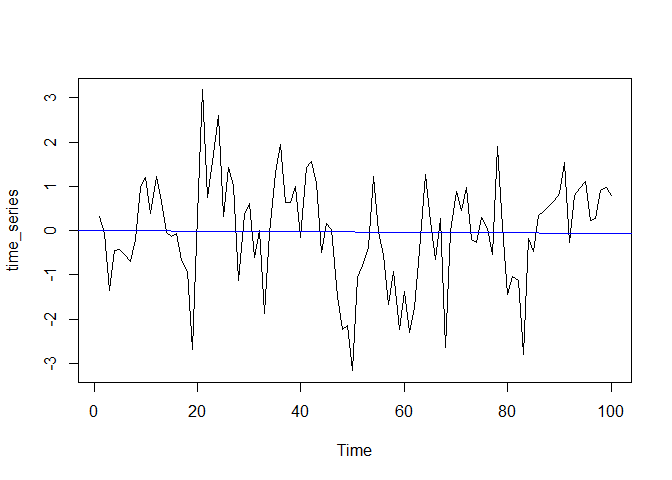
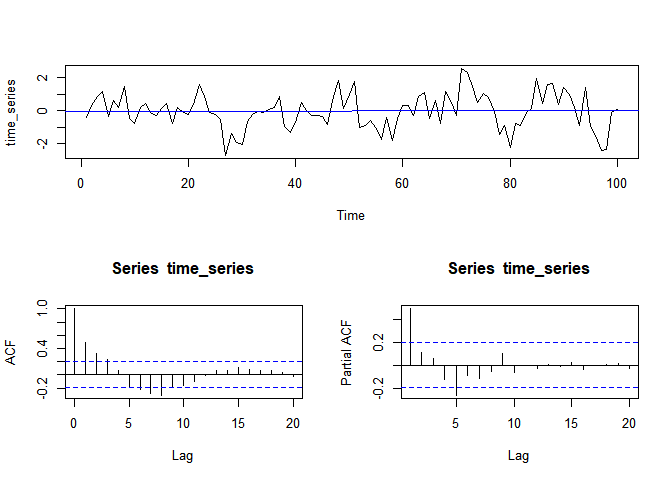
Fix plot layouts

diff --git a/src/2022-03-04_inadequacy-of-t-tests-for-time-series-data.md b/src/2022-03-04_inadequacy-of-t-tests-for-time-series-data.md
@@ -46,25 +46,20 @@ library(forecast)
 # 3 Single t-test
 
 ``` r
+layout.matrix <- matrix(c(1, 2, 1, 3), nrow = 2, ncol = 2)
+layout(mat = layout.matrix)
+
+
 time_series <- arima.sim(model = list(ar = .5), n = 100)
 plot(time_series)
 fit <- lm(as.vector(time_series) ~ c(1:length(time_series)))
 abline(fit, col = "blue")
-```
 
-![](2022-03-04_inadequacy-of-t-tests-for-time-series-data_files/figure-gfm/unnamed-chunk-2-1.png)<!-- -->
-
-``` r
 acf(time_series)
-```
-
-![](2022-03-04_inadequacy-of-t-tests-for-time-series-data_files/figure-gfm/unnamed-chunk-2-2.png)<!-- -->
-
-``` r
 pacf(time_series)
 ```
 
-![](2022-03-04_inadequacy-of-t-tests-for-time-series-data_files/figure-gfm/unnamed-chunk-2-3.png)<!-- -->
+![](2022-03-04_inadequacy-of-t-tests-for-time-series-data_files/figure-gfm/unnamed-chunk-2-1.png)<!-- -->
 
 ``` r
 sample_mean <- mean(time_series)
@@ -74,7 +69,7 @@ Here we have an `AR(1)` model with no “intercept” or starting term. By
 definition, it is weakly stationary, with mean equal to zero. That is,
 *μ* = 0.
 
-The sample mean here is -0.0184821.
+The sample mean here is -0.0216286.
 
 We can do a t-test to assess the null hypothesis
 *H*<sub>0</sub> : *μ* = 0 vs alternative hypothesis
@@ -87,7 +82,7 @@ alpha <- .05
 reject_null <- t_test_p_value < alpha
 ```
 
-The t-test gives a p-value of 0.8768696, which in this case means
+The t-test gives a p-value of 0.8397995, which in this case means
 `reject_null` = FALSE.
 
 # 4 Simulation of a large number of t-tests
@@ -111,7 +106,7 @@ prop_false_rejection <- mean(sim_data < alpha)
 The Type 1 error rate is the proportion of time the p-value is less than
 `alpha` under the null hypothesis.
 
-**Here, the value of the Type 1 error rate is 0.2616. This is much
+**Here, the value of the Type 1 error rate is 0.2651. This is much
 higher than `alpha`, which is the “advertised” Type 1 error rate.**
 
 # 5 Comparison using normally distributed data
@@ -126,7 +121,7 @@ sim_data <- replicate(10000, {
 prop_false_rejection_normal <- mean(sim_data < .05)
 ```
 
-Here the t-test performs well. The Type 1 error rate is 0.0483
+Here the t-test performs well. The Type 1 error rate is 0.0479
 
 # 6 Working with residuals from fitted ARIMA model
 
@@ -137,27 +132,30 @@ independent and identically distributed. Thus, the t-test should work
 well on the residuals.
 
 ``` r
+layout.matrix <- matrix(c(1, 2, 1, 3), nrow = 2, ncol = 2)
+layout(mat = layout.matrix)
+
+
 time_series <- arima.sim(model = list(ar = .5), n = 200)
 model <- auto.arima(time_series, stepwise = FALSE, approximation = FALSE)
 
 plot(time_series)
 lines(model$fitted, col = "blue")
-```
 
-![](2022-03-04_inadequacy-of-t-tests-for-time-series-data_files/figure-gfm/unnamed-chunk-6-1.png)<!-- -->
-
-``` r
-if (is.na(model$coef["intercept"])){
+if (is.na(model$coef["intercept"])) {
   intercept <- 0
 } else {
   intercept <- model$coef["intercept"]
 }
 
+
+hist(model$residuals)
+
 shifted_residuals <- model$residuals + intercept
 hist(shifted_residuals)
 ```
 
-![](2022-03-04_inadequacy-of-t-tests-for-time-series-data_files/figure-gfm/unnamed-chunk-6-2.png)<!-- -->
+![](2022-03-04_inadequacy-of-t-tests-for-time-series-data_files/figure-gfm/unnamed-chunk-6-1.png)<!-- -->
 
 ``` r
 alpha <- 0.05
@@ -165,7 +163,7 @@ t_test_p_value <- t.test(shifted_residuals, mu = 0)$p.value
 reject_null <- t_test_p_value < alpha
 ```
 
-In this case, the p-value is 0.2742381, and `reject_null` is FALSE
+In this case, the p-value is 0.7117781, and `reject_null` is FALSE
 
 ## 6.1 Simulation over many iterations
 
@@ -179,7 +177,7 @@ sim_data <- replicate(1000, {
   
   model <- auto.arima(x, stepwise = TRUE, approximation = TRUE)
   
-  if (is.na(model$coef["intercept"])){
+  if (is.na(model$coef["intercept"])) {
     intercept <- 0
   } else {
     intercept <- model$coef["intercept"]
@@ -195,5 +193,5 @@ prop_false_rejection <- mean(sim_data < alpha)
 ```
 
 **The Type 1 error rate after removing some time series structure is
-0.148. Although this is still inflated, it is an improvement over the
+0.145. Although this is still inflated, it is an improvement over the
 uncorrected t-test result.**
